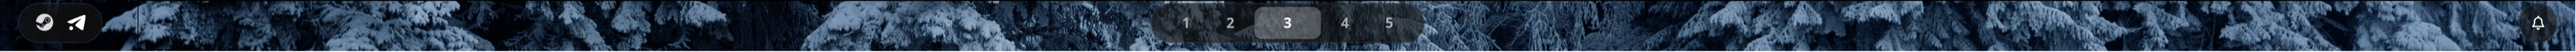
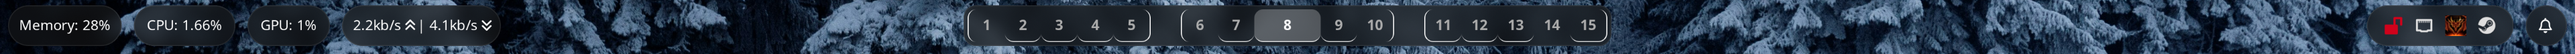
Readme overhaul with new screenshots and features

diff --git a/waybar/.config/waybar/style.css b/waybar/.config/waybar/style.css
@@ -58,14 +58,14 @@ menu {
 	color: #fff;
 }
 menuitem {
-	border-radius: 15px;
+  border-radius: 15px;
 }
 
-/*
 #custom-day, #custom-date {
-  background: rgba(20, 20, 20, 0.45);
+  margin: 12px 6px;
+  padding: 0px 10px;
+  font-family: monospace;
 }
-*/
 
 /* workspaces buttons inside pill */
 
@@ -83,11 +83,6 @@ menuitem {
 #workspaces button {
   color: #ababab;
 }
-/* 
-#workspaces button:nth-child(n+1):nth-child(-n+5) {
-  background: rgba(20, 20, 20, 0.65);
-  border: 1px solid rgba(255,255,255,0.08);
-} */
 
 #workspaces button:not(.empty) {
   border-bottom: 1px solid rgba(255, 255, 255, 0.831);
@@ -115,30 +110,6 @@ menuitem {
   /* border-radius: 4px; */
 }
 
-#custom-workspaces {
-  /* word-spacing: normal; */
-  letter-spacing: 3px;
-}
-
-#custom-workspaces.items{
-  font-size: 21px;
-  transition: 0.15s all ease;
-  color: white;
-  /*padding: 4px 12px;
-  margin: 0 2px;
-  border-radius: 8px; */
-}
-
-/* #custom-workspaces.items:not(p) {
-  font-size: 19px;
-  color: red;
-} */
-
-#custom-workspaces.normal {
-  background: rgba(255,255,255,0.25);
-  color: red;
-  padding: 4px 25px;
-}
 #workspaces button:hover:not(.active) {
   background: rgba(0, 0, 0, 0.45);
 }
@@ -199,7 +170,6 @@ menuitem {
 #custom-wallpaper, #custom-power, #bluetooth, #network.vpn, #bluetooth.off, #bluetooth.disabled {
   padding: unset;
   border-radius: 50%;
-
   min-width: 35px;
   min-height: 35px;
 }
@@ -216,6 +186,8 @@ menuitem {
   border: 1px solid rgba(255,255,255,0.08);
   color: #8a8a8a;
 }
+
+/* SIDEBARS */
 
 #sidebar {
   background: rgb(0, 0, 0);

diff --git a/README.md b/README.md
@@ -53,25 +53,81 @@ sudo dnf update
 sudo dnf install -y hyprland waybar wofi swaync eww ghostty nautilus gnome-clocks hyprshot hyprpicker
 ```
 
-# Screenshots/Features:
+# Features:
+
+### Workspace Grid Movement
+
+It's now a proper workspace grid! It's currently hard coded to a 5x3 grid, and can be navigated with 'CTRL + SHIFT + Arrow Keys', the waybar, or the overview. Check out how it's done in [grid.lua](https://github.com/Jules3182/dotfiles/blob/main/hyprland/.config/hypr/modules/grid.lua). I am debating starting up a new project and actually properly implementing this as a hyprland plugin...
 
 ### Night Mode
-![Screenshot 1](/Resources/Screenshots/Screenshot1.png)
+![Night Mode Empty](/Resources/Screenshots/Screenshot1.png)
 
-![Screenshot 2](/Resources/Screenshots/Screenshot2.png)
+![Night Mode Windows](/Resources/Screenshots/Screenshot2.png)
 
 Background Photo by [Antonia Glaskova](https://unsplash.com/photos/a-group-of-pine-trees-covered-in-snow-OBOgT2CIhQM)
 
 ### Day Mode
-![Screenshot 1](/Resources/Screenshots/Screenshot3.png)
+![Day Mode Empty](/Resources/Screenshots/Screenshot3.png)
 
-![Screenshot 2](/Resources/Screenshots/Screenshot4.png)
+![Day Mode Windows](/Resources/Screenshots/Screenshot4.png)
 
 Background Photo By [Zhaoli JIN](https://unsplash.com/photos/beige-and-black-lamp-on-green-tree-during-nighttime-e4I2ktXz5cA)
 
 (The background switcher button is in the top left corner, script can be found [here](https://github.com/Jules3182/dotfiles/blob/main/hyprland/.config/hypr/scripts/toggle_wallpaper.sh). I didn't feel like a full theme switcher would be needed, and the theming I have done works great for both so this was the perfect inbetween for me)
 
-## Main Tools Used:
+### Custom Power Menu:
+
+![Power Menu](/Resources/Screenshots/powermenu.gif)
+
+### Custom Calander Dropdown:
+
+![Calendar](/Resources/Screenshots/ewwCal.png)
+
+### Wallpaper Switching Overlays:
+
+![Night Overlay](/Resources/Screenshots/popupNight.png)
+
+![Day Overlay](/Resources/Screenshots/popupDay.png)
+
+### Custom Keybindings:
+
+Check out my [Keybind Cheatsheet](https://github.com/Jules3182/dotfiles/blob/main/KeybindCheatsheet.md) for the full breakdown, it's expanded quite a bit since 0.55 to the point that it needed it's own page. The binds themselves are primarily found in [binds.lua](https://github.com/Jules3182/dotfiles/blob/main/hyprland/.config/hypr/modules/binds.lua), with some navigation specific ones split off into [grid.lua](https://github.com/Jules3182/dotfiles/blob/main/hyprland/.config/hypr/modules/grid.lua)
+
+### Bars:
+
+#### Top Bar:
+
+**Day Mode:**
+![Top Waybar Day](/Resources/Screenshots/TopBarDay.png)
+
+**Night Mode:**
+![Top Waybar Night](/Resources/Screenshots/TopBarNight.png)
+
+*Contains my wallpaper switcher, active window, Day-Time-Date, VPN activity button, Bluetooth Activity button, volume, and power menu*
+
+#### Bottom Bar:
+
+**Day Mode:**
+![Bottom Waybar Day](/Resources/Screenshots/BottomBarDay.png)
+
+**Night Mode:**
+![Bottom Waybar Night](/Resources/Screenshots/BottomBarNight.png)
+
+*Contains my memory %, CPU %, GPU %, Network Up/Down, Workspaces, System Tray, and Notifications*
+
+#### Side Bars:
+
+Sidebars use [this Script](https://github.com/Jules3182/dotfiles/blob/main/hyprland/.config/hypr/scripts/sidebar.sh) to check the mouse location and automatically hide/show them!
+
+**Left Sidebar**
+(Quick app launcher)
+![Bottom Waybar Day](/Resources/Screenshots/SidebarLeft.png)
+
+**Right Sidebar**
+(Window layout switcher)
+![Bottom Waybar Day](/Resources/Screenshots/SidebarRight.png)
+
+# Tools Used:
 
 ### [Nobara](https://nobaraproject.org/)
 
@@ -83,37 +139,9 @@ My personal distro of choice, based on fedora and optimized for gaming and media
 
 Everyone's favorite Tiling Window Manager. I was resistant at first, but after using it for about 10 minutes I fell in love and haven't looked back (sorry gnome)
 
-#### Custom "grid" workspace scrolling:
-
-<video src="https://github.com/user-attachments/assets/e7938ba6-eb80-4bcc-a9ef-27f6bfd5c645" width="320" height="240" controls></video>
-
-Although it doesn't actually set up workspaces in a grid it definetly feels like they are, and frankly is just pretty fun to mess around with. You can check how I set it up in the [Binds](https://github.com/Jules3182/dotfiles/blob/main/hyprland/.config/hypr/modules/binds.lua) module of my hyprland config.
-
 ### [Waybar](https://github.com/alexays/waybar)
 
 *For the time being, you will have to build waybar from source or use waybar-git for it to work properly*
-
-#### Top Bar:
-
-**Day Mode:**
-![Top Waybar Day](/Resources/Screenshots/TopBarDay.png)
-
-**Night Mode:**
-![Top Waybar Night](/Resources/Screenshots/TopBarNight.png)
-
-*Contains my wallpaper switcher, active window, Day-Time-Date, Network up/down, memory %, CPU %, volume, and power menu*
-
-#### Bottom Bar:
-
-**Day Mode:**
-![Bottom Waybar Day](/Resources/Screenshots/BottomBarDay.png)
-
-**Night Mode:**
-![Bottom Waybar Night](/Resources/Screenshots/BottomBarNight.png)
-
-*Contains background tasks, persistent workspace switcher, and notifications button*
-
-A taskbar for Hyprland, super customizable in both look and utility. i was able to create the "pills" that I like, and have a main bar at the top runnjng as well as a bottom bar for worksace switching, tasks, and notifications. 
 
 ### [Wofi](https://github.com/SimplyCEO/wofi)
 
@@ -130,20 +158,6 @@ My notification center. This one needs the most work to be honest, it was my mos
 ### [eww](https://github.com/elkowar/eww)
 
 Eww is a pretty interesting and powerful widget tool I came across while looking for a good way to create custom pop ups that weren't just notifications. I'm probably not using it to it's full potential, but I am very happy with what I was able to do with it so far.
-
-#### Custom Power Menu:
-
-![Calendar](/Resources/Screenshots/powermenu.gif)
-
-#### Custom Calander Dropdown:
-
-![Calendar](/Resources/Screenshots/ewwCal.png)
-
-#### Wallpaper Switching Overlays:
-
-![Calendar](/Resources/Screenshots/popupNight.png)
-
-![Calendar](/Resources/Screenshots/popupDay.png)
 
 
 ### [Ghostty](https://ghostty.org/)
@@ -164,23 +178,9 @@ The icing on my Ghostty cake. Just a fancy looking terminal prompt for me, thoug
 
 I mean what's a rice without fastfetching? I have a custom logo for it in the repo, but haven't been using it lately. 
 
-## Custom Additional Keybindings:
-
-Check out [binds.lua](https://github.com/Jules3182/dotfiles/blob/main/hyprland/.config/hypr/modules/binds.lua) for the full list, it's expanded quite a bit since 0.55, but here are a few of my favorite additions:
-
-```
-hl.bind(mainMod .. " + R", hl.dsp.exec_cmd("~/.config/hypr/scripts/reload.sh")) -- Reload Script
-hl.bind(mainMod .. " + B", hl.dsp.exec_cmd("brave-browser")) -- Browser Shortcut
-hl.bind(mainMod .. " + F", hl.dsp.window.fullscreen())
-hl.bind(mainMod .. " + page_down", hl.dsp.exec_cmd("hyprshot -m output -o $HOME/Pictures/Screenshots")) -- Full Page Screenshot
-hl.bind(mainMod .. " + page_up", hl.dsp.exec_cmd("hyprshot -m region output -o $HOME/Pictures/Screenshots")) -- Region Screenshot
-hl.bind(mainMod .. " + N", hl.dsp.exec_cmd("swaync-client -t -sw")) -- Show/hide Notifications
-hl.bind(CSH .. " + insert", hl.dsp.exec_cmd("eww active-windows | grep powermenu  && eww close powermenu  || eww open powermenu && killall -SIGUSR1 waybar")) -- Show/Hide powermenu
-```
-
 ## Whats Next?
 
-- [ ] Fix the waybar tray (could just be a hyprland update bug)
+- [x] Fix the waybar tray (could just be a hyprland update bug)
 - [ ] Fix the weird spacing in the calendar
 - [x] Clicking waybar workspaces should do popin instead of the last slide direction
 - [x] Clean up notifications center (it's mostly unfinished)
